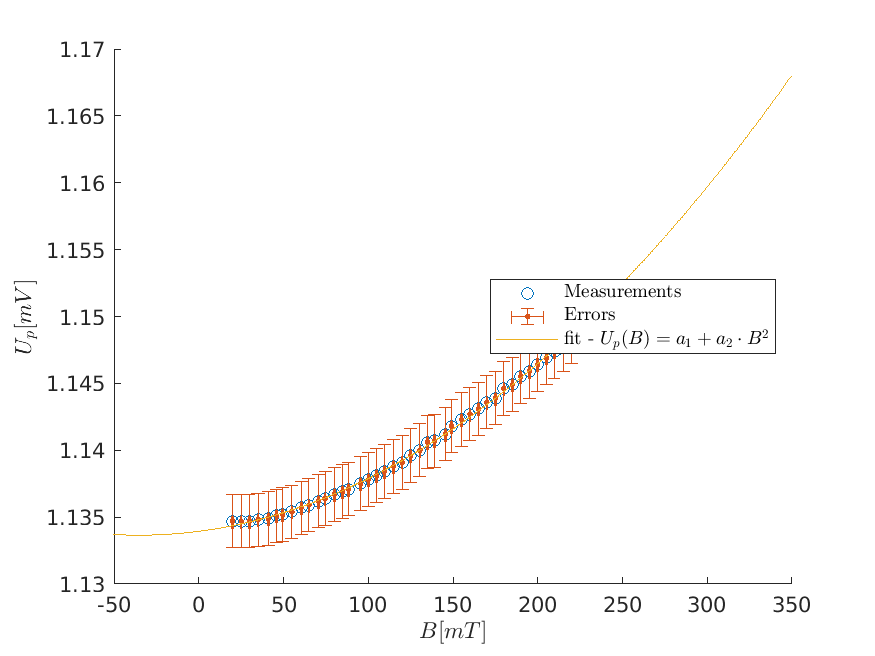
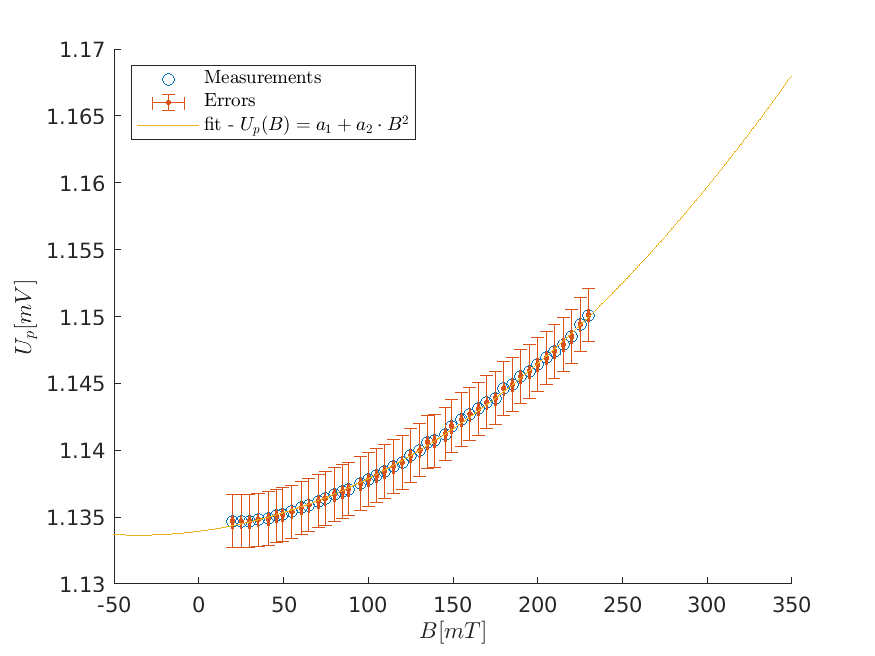
Move legend of part3 graph

diff --git a/x4.Hall/combined.m b/x4.Hall/combined.m
@@ -248,7 +248,7 @@ legend( ...
 	'Measurements', ...
 	'Errors', ...
 	'fit - $U_p(B) = a_1 + a_2 \cdot B^2$', ...
-	'Location', 'East', 'Interpreter', 'Latex' );
+	'Location', 'NorthWest', 'Interpreter', 'Latex' );
 xlabel('$B [mT]$', 'Interpreter', 'Latex' );
 ylabel('$U_p [mV]$', 'Interpreter', 'Latex' );
 print("part3 - B-squared relation.png", "-dpng")
